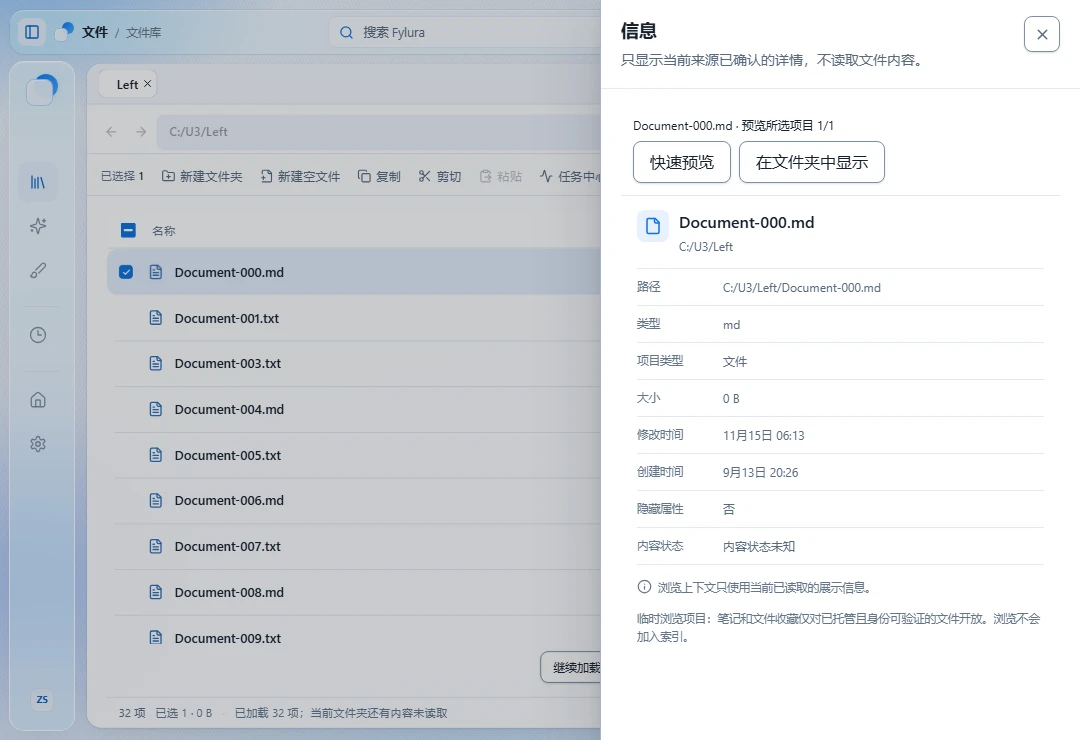
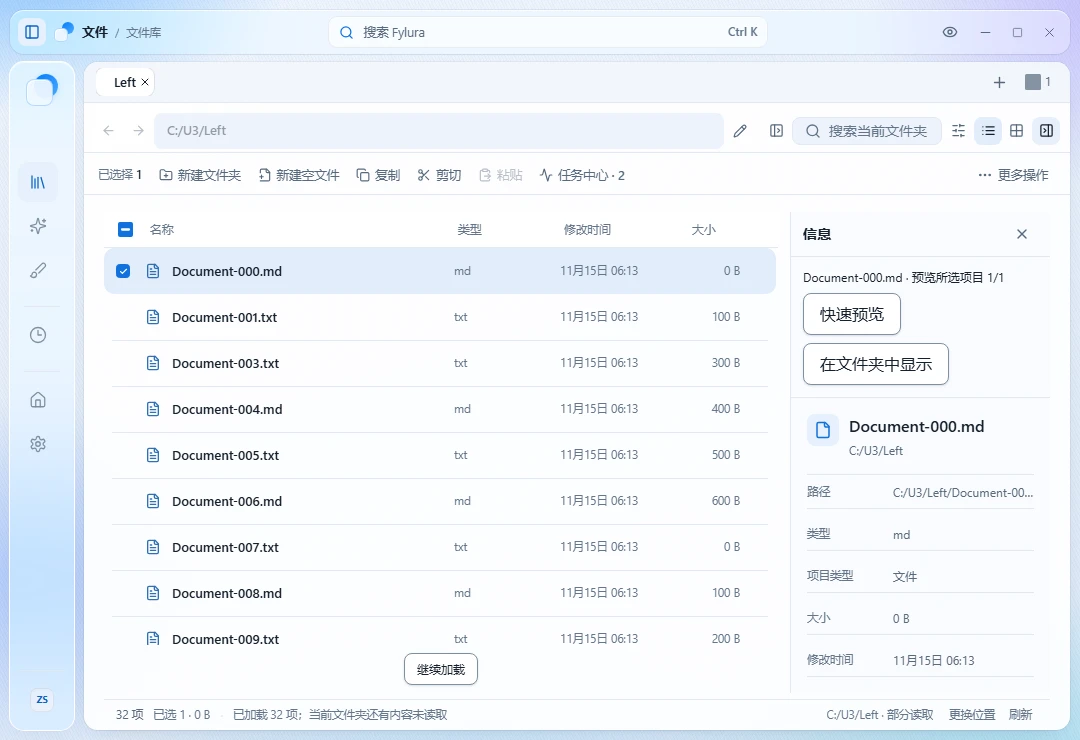
fix(files): keep the medium-window Inspector inline and refresh parity evidence

diff --git a/src/views/fileLibrary/context/ContextPanel.tsx b/src/views/fileLibrary/context/ContextPanel.tsx
@@ -30,6 +30,9 @@ export function ContextPanel({
 }) {
   const { layout, paneOverlay } = useContextPanelPresentation();
   const usePaneOverlay = paneOverlay && layout !== "large";
+  // A single medium window has enough room for the prototype's inline 260px
+  // inspector; only compact windows and multi-pane overlays use the sheet.
+  const inline = layout === "large" || (layout === "medium" && !paneOverlay);
   if (!open || projection.kind === "none") return null;
 
   const title = contextTitle(projection);
@@ -37,7 +40,7 @@ export function ContextPanel({
   const closeLabel = contextCloseLabel(projection);
   const closePanel = () => {
     onClose();
-    if (layout === "large" || usePaneOverlay) restoreFileLibraryFocus(restoreFocus);
+    if (inline || usePaneOverlay) restoreFileLibraryFocus(restoreFocus);
   };
 
   const content = (
@@ -50,7 +53,7 @@ export function ContextPanel({
     </div>
   );
 
-  if (layout === "large" || usePaneOverlay) {
+  if (inline) {
     return (
       <aside
         className={cn(

diff --git a/src/views/fileLibrary/browse/browseMode.css b/src/views/fileLibrary/browse/browseMode.css
@@ -443,3 +443,9 @@
     transition: none;
   }
 }
+
+/* Medium windows keep the prototype's split Inspector; compact windows use
+ * the sheet. Multi-pane overlays stay scoped to their pane. */
+.file-library-workspace[data-layout="medium"] .browse-mode-body.has-context .file-library-browse-context-layout {
+  grid-template-columns: minmax(0, 1fr) minmax(240px, 260px);
+}

diff --git a/src/views/fileLibrary/library/libraryMode.css b/src/views/fileLibrary/library/libraryMode.css
@@ -57,3 +57,7 @@
     transition: none;
   }
 }
+
+.file-library-workspace[data-layout="medium"] .file-library-library-mode-result.has-context {
+  grid-template-columns: minmax(0, 1fr) minmax(240px, 260px);
+}
